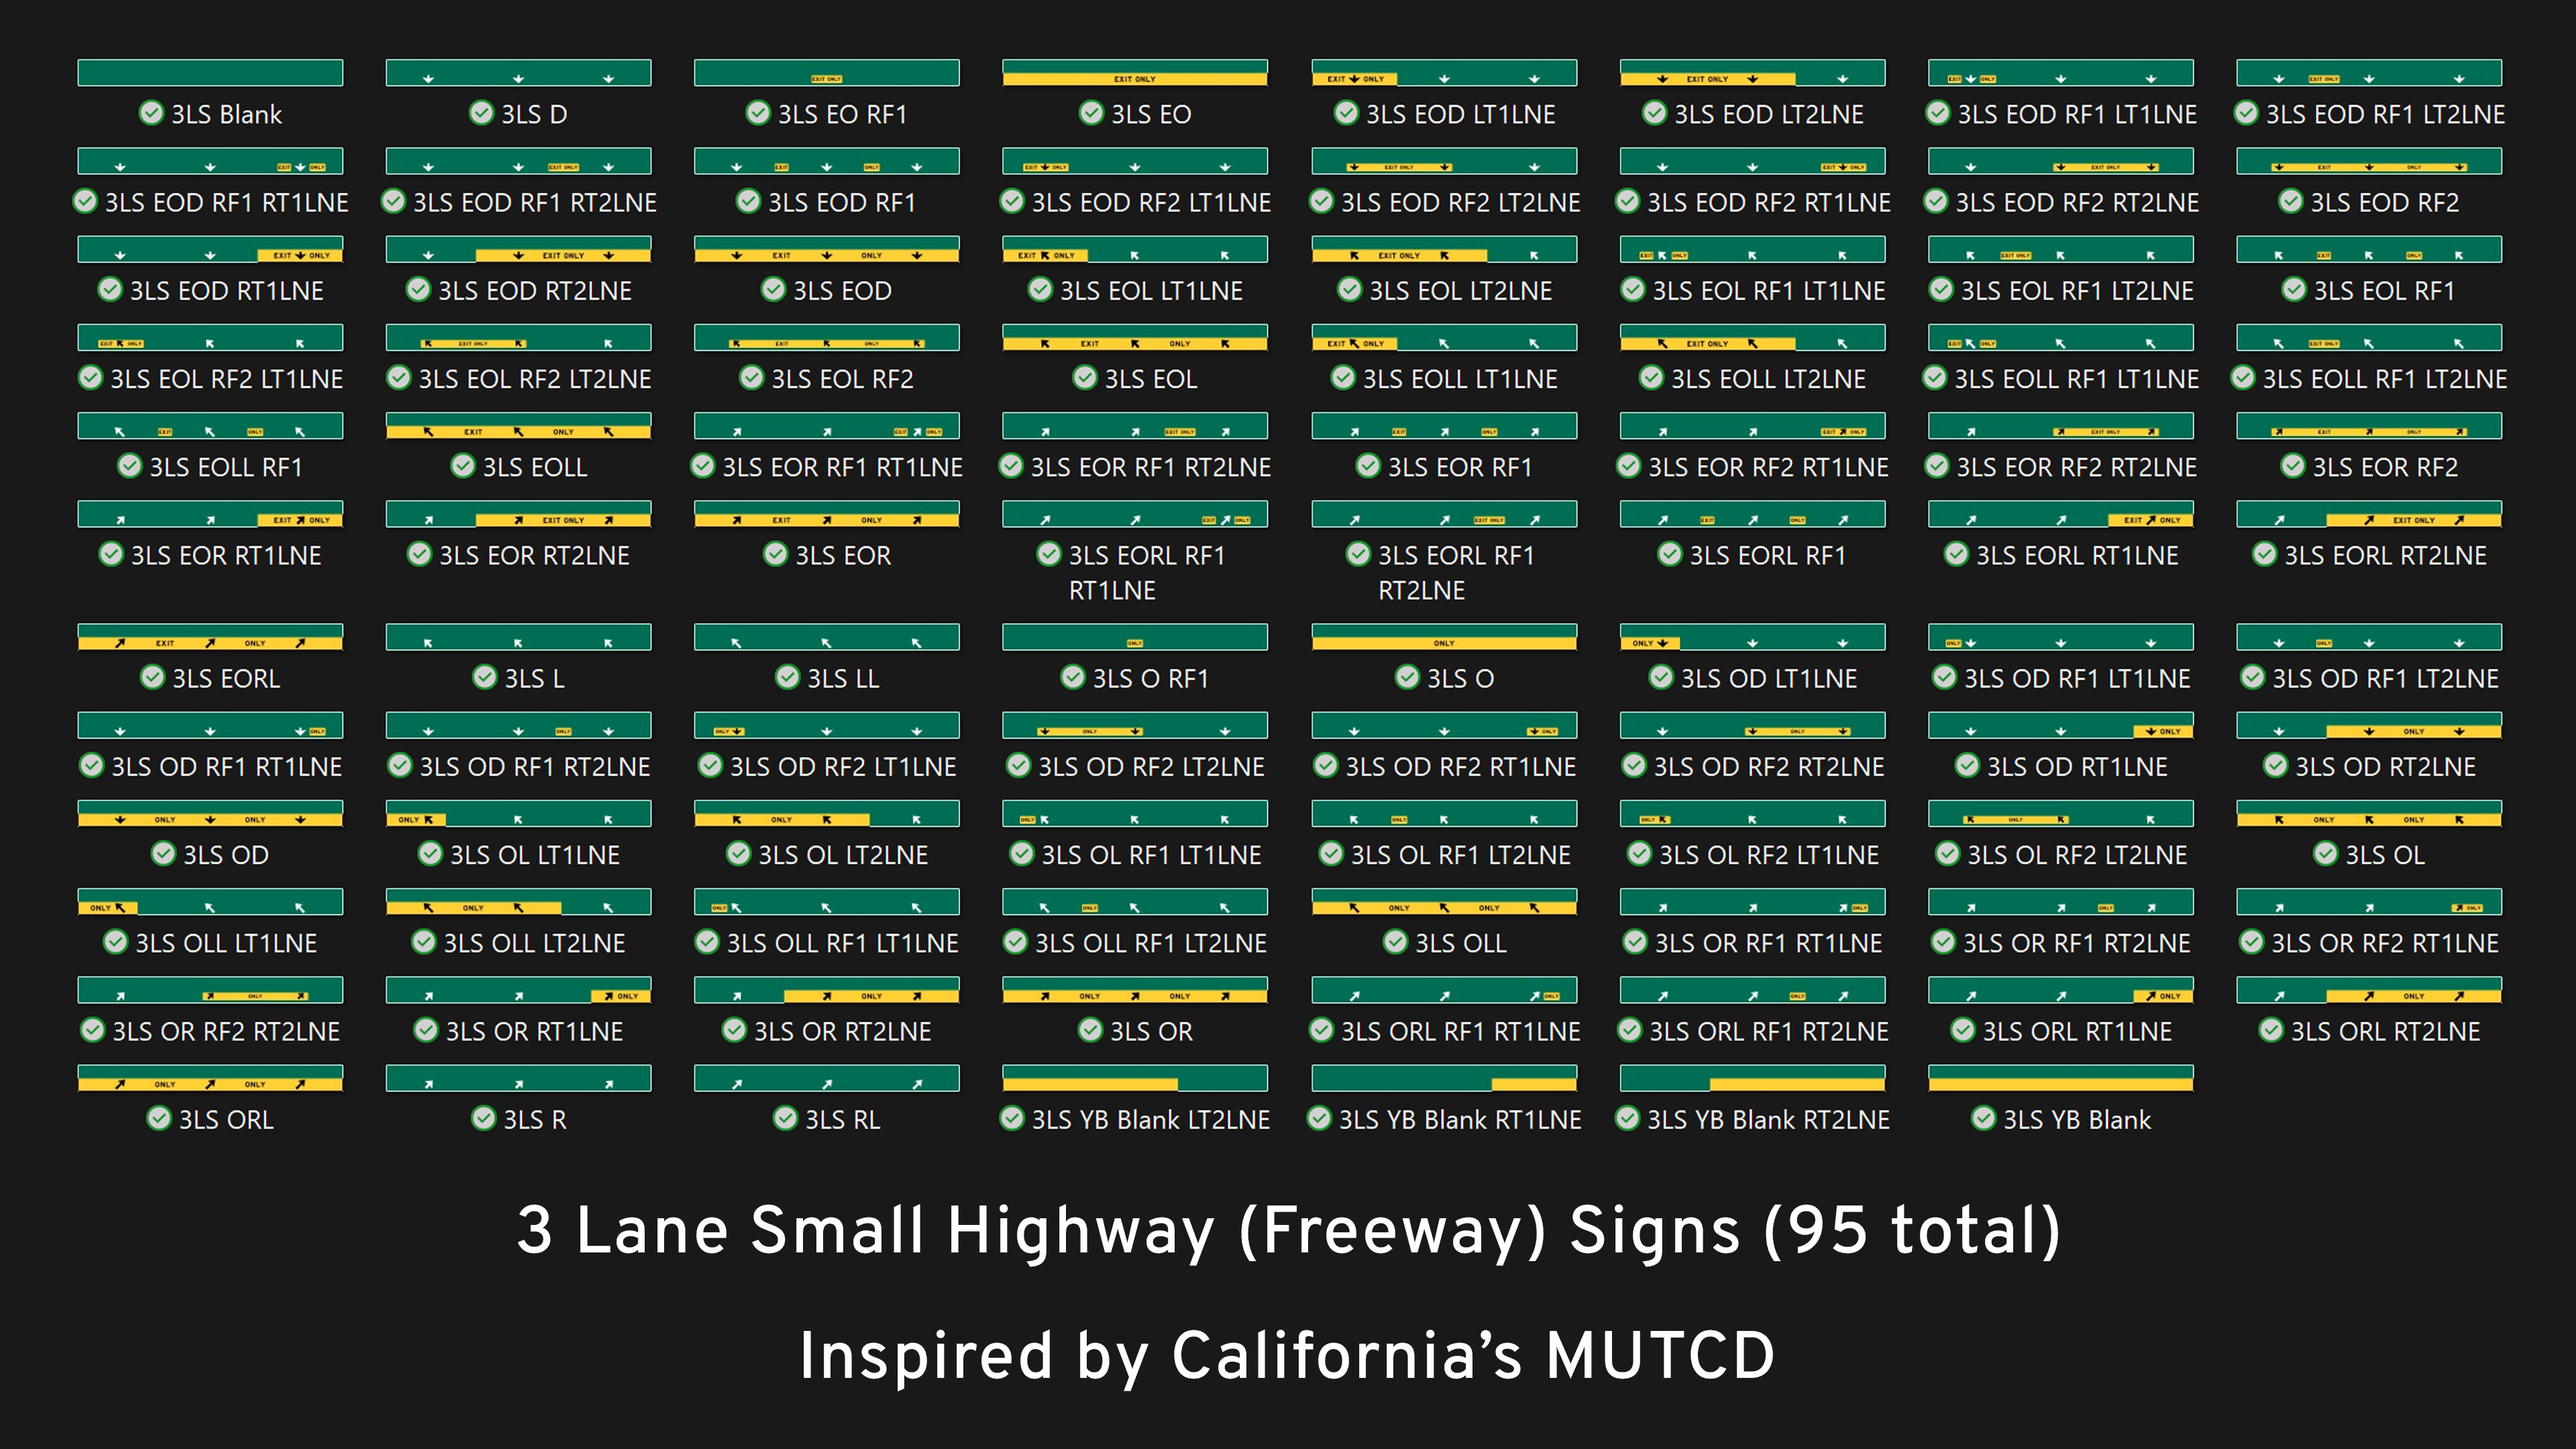
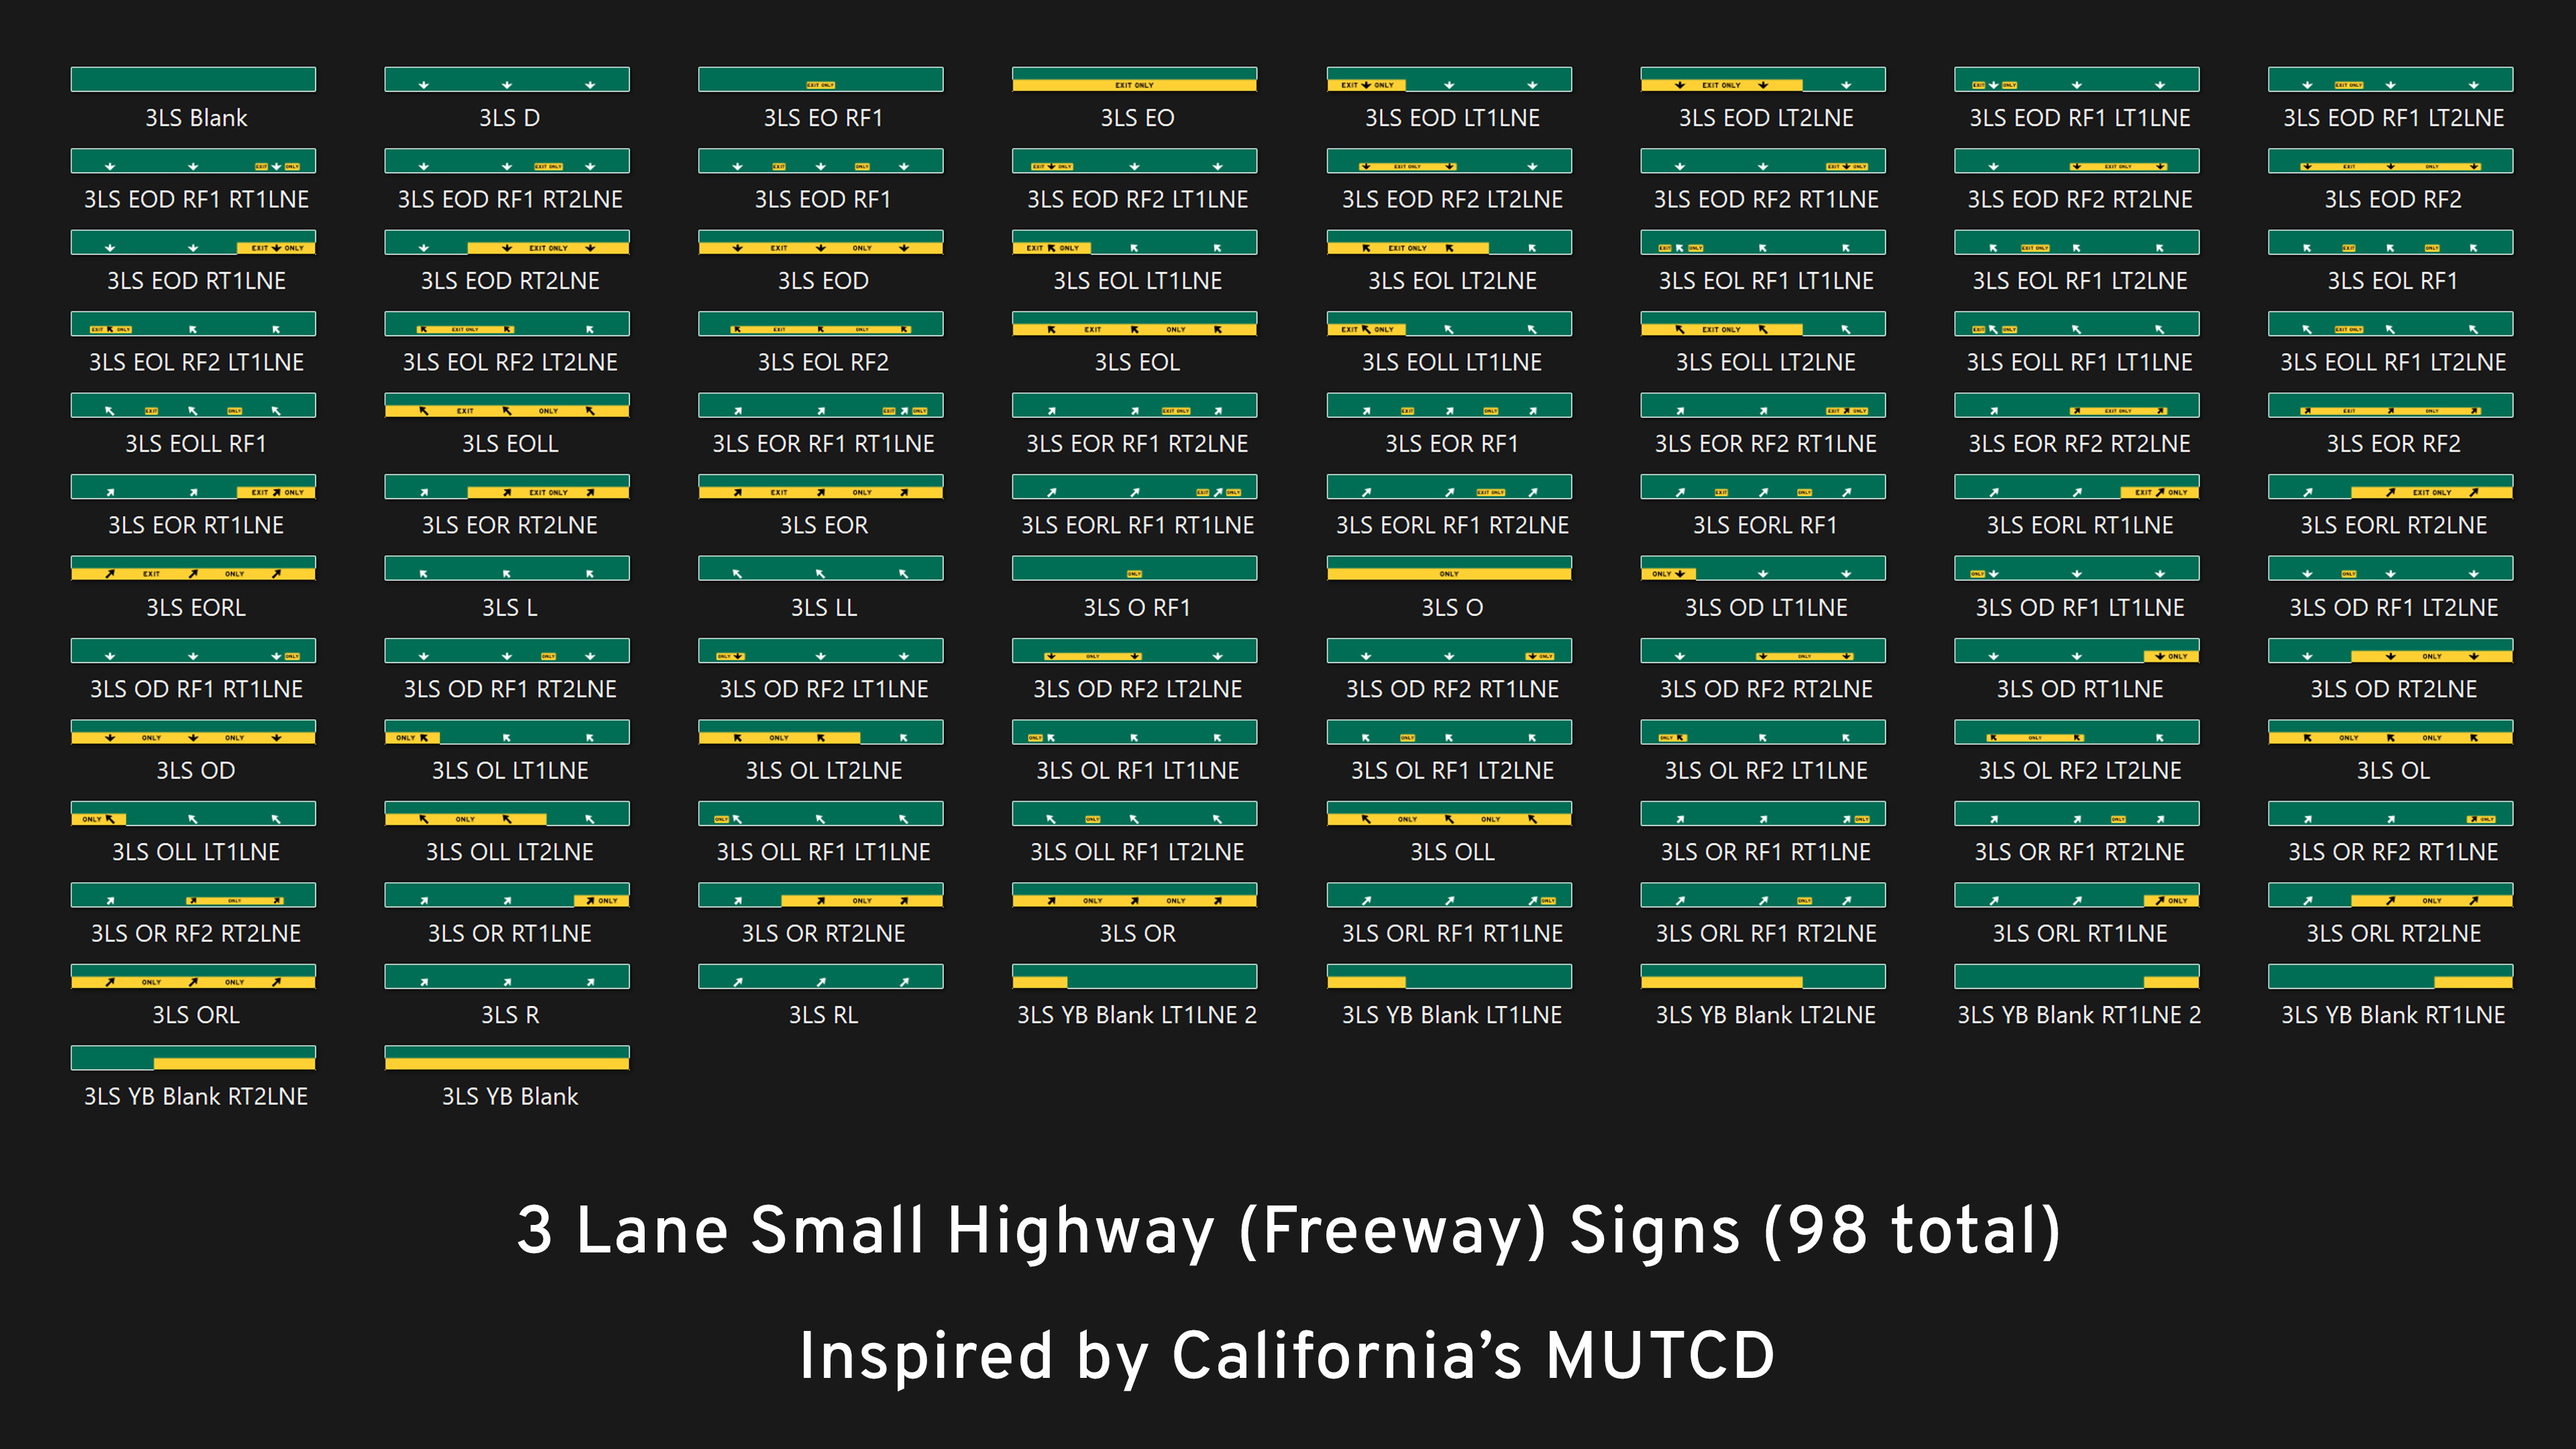
Added missing signs v1.0.1

Changed region(s): [[0.0312, 0.031, 1.0, 0.7755]]

diff --git a/_BaseModule/README.md b/_BaseModule/README.md
@@ -5,7 +5,7 @@ Hello Cities: Skylines II civil engineers! This is a **Write Everywhere Module**
 ## Features
 
 - 3 Lane (Small) California Highway (Freeway) signs inspired by California's MUTCD
-- 95 total signs (see screenshots)
+- 98 total signs (see screenshots)
 - WE Layout included for easy implementation onto your highways (freeways)
 
 ## How to Use

diff --git a/_BaseModule/changelog.md b/_BaseModule/changelog.md
@@ -1,0 +1,2 @@
+# v1.0.1
+- Added missing 3LS YB Blank LT1LNE, 3LS YB Blank LT1LNE 2, and 3LS YB Blank RT1LNE 2 signs.
